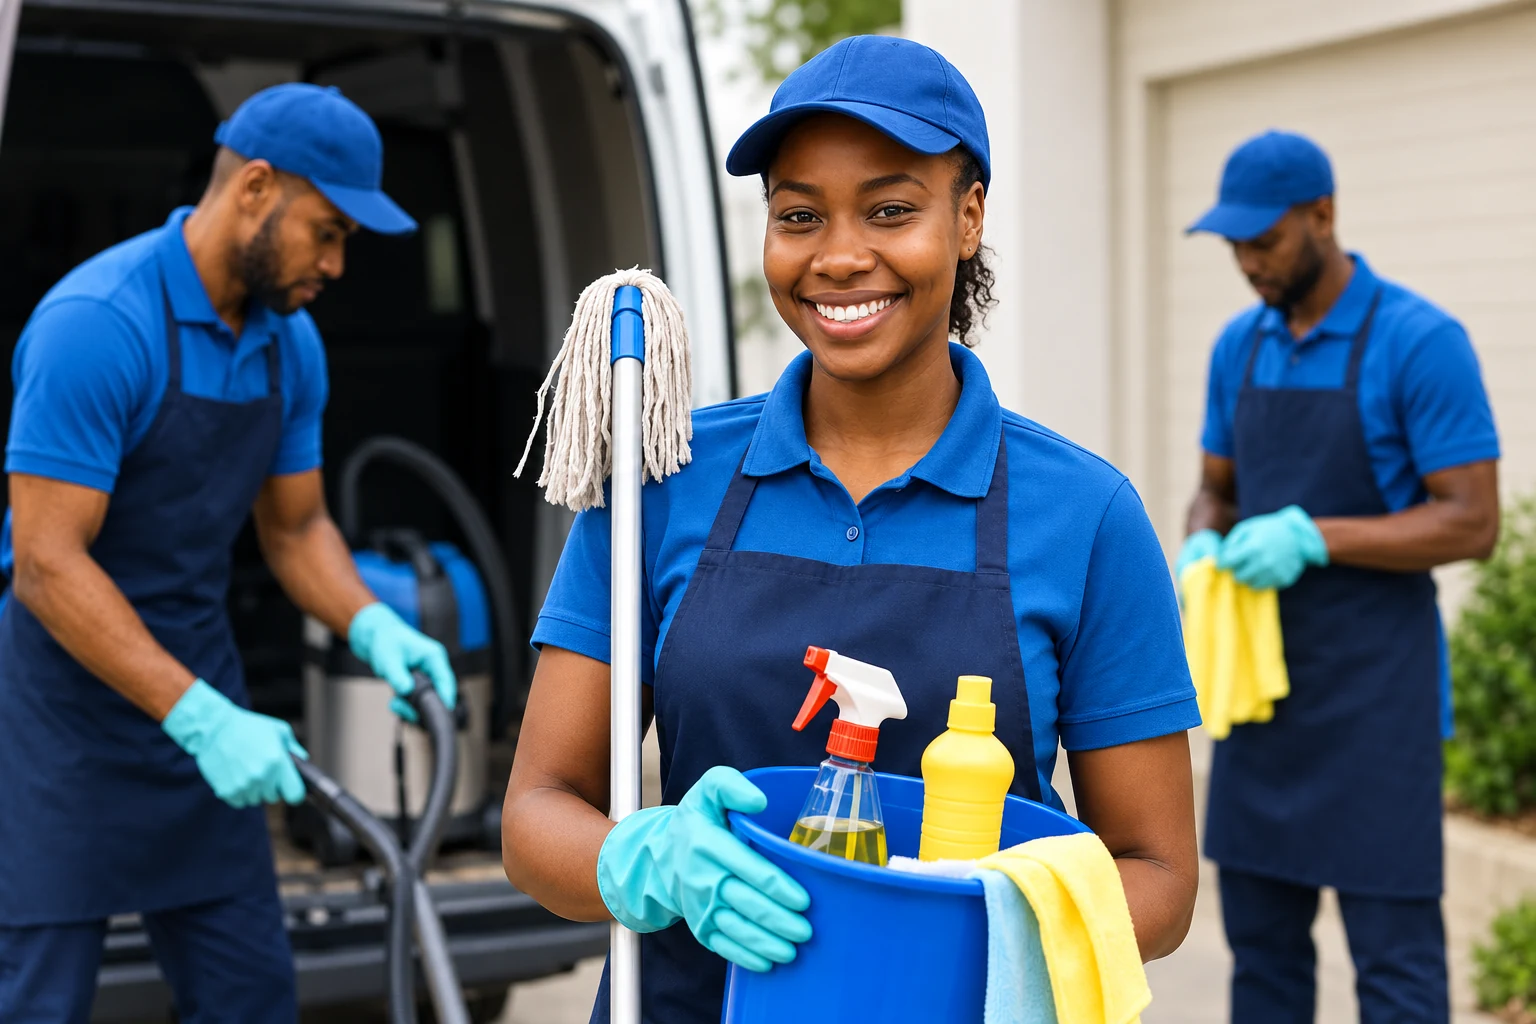
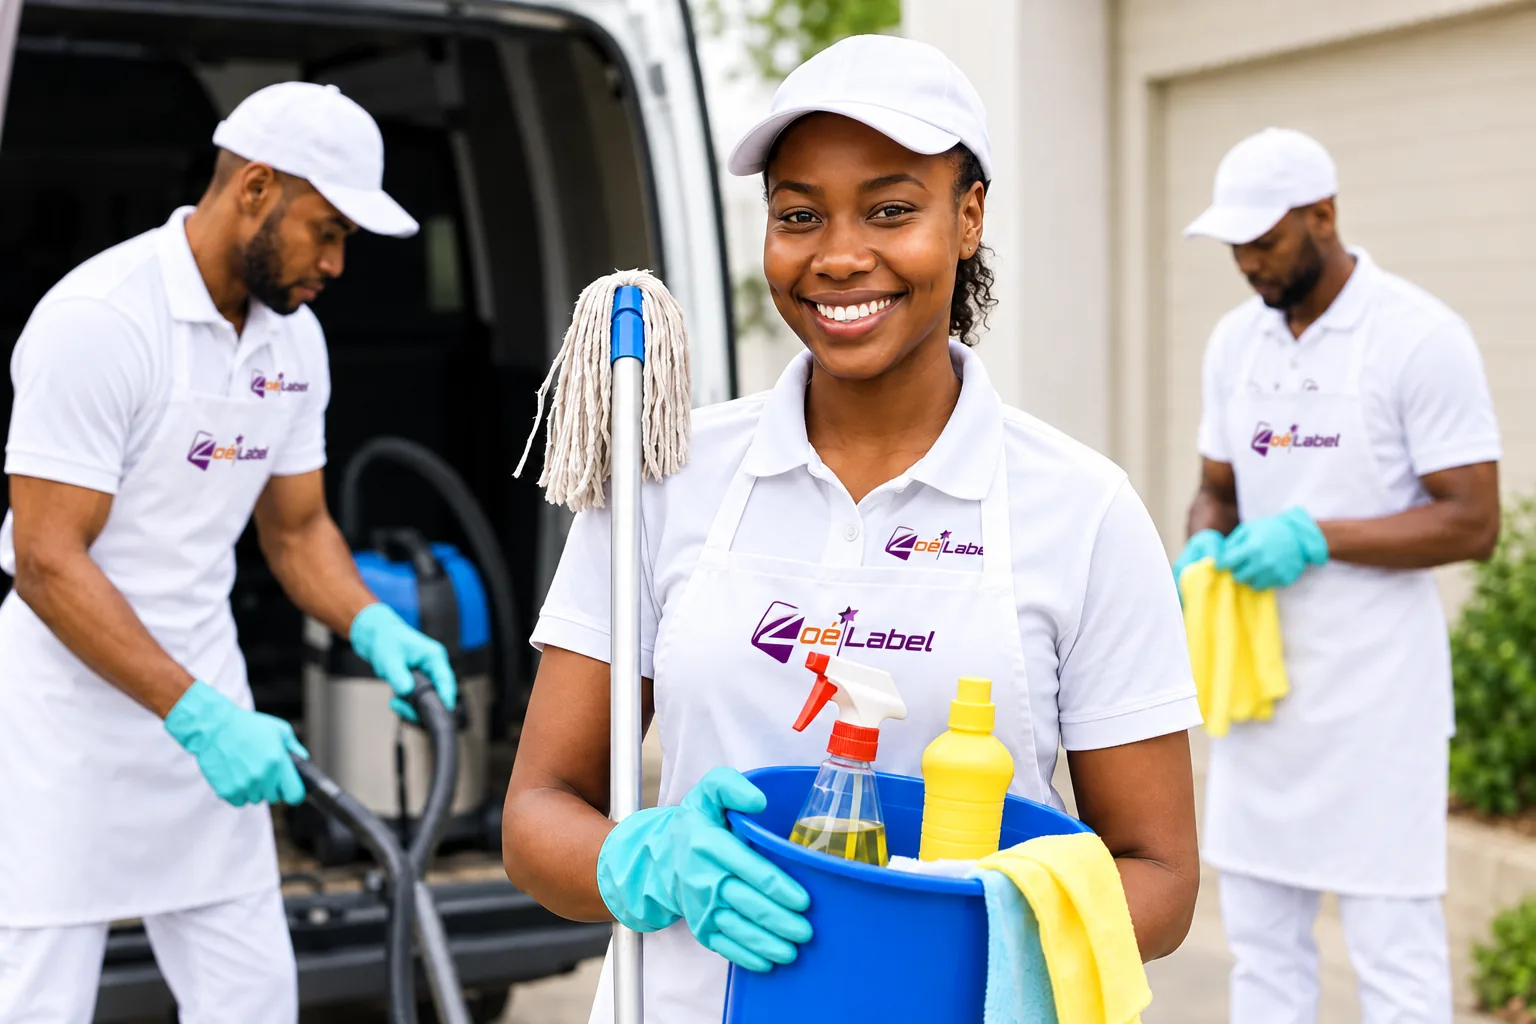
feat(hero): team photo with white ZOE LABEL-branded uniforms; stronger mobile overlay; refresh og-image

diff --git a/styles.css b/styles.css
@@ -1552,9 +1552,10 @@ main h2 {
   .hero::after {
     background: linear-gradient(
       0deg,
-      rgb(26 8 31 / 85%) 0%,
-      rgb(26 8 31 / 45%) 50%,
-      rgb(26 8 31 / 10%) 80%
+      rgb(26 8 31 / 92%) 0%,
+      rgb(26 8 31 / 70%) 45%,
+      rgb(26 8 31 / 25%) 70%,
+      rgb(26 8 31 / 5%) 90%
     );
   }
   .hero-content {
